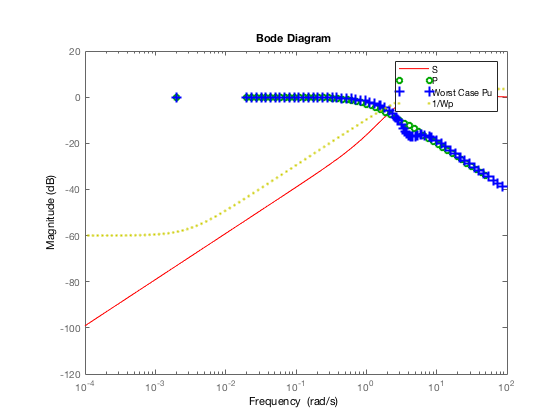
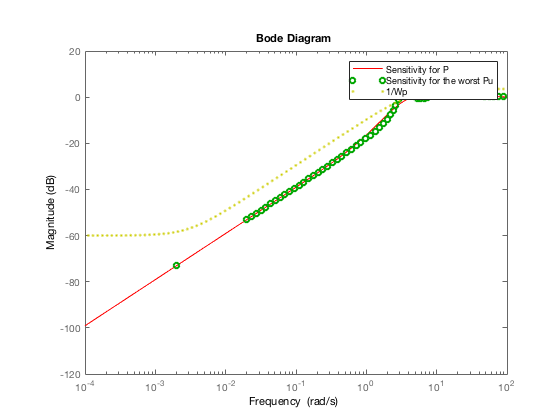
Final

diff --git a/FinalExam/html/q5.html b/FinalExam/html/q5.html
@@ -66,7 +66,7 @@ table td { padding:7px 5px; text-align:left; vertical-align:top; border:1px soli
 
 
 
-  </style></head><body><div class="content"><h1>q5</h1><!--introduction--><!--/introduction--><h2>Contents</h2><div><ul><li><a href="#1">5.a</a></li><li><a href="#2">5.b</a></li><li><a href="#3">5.c</a></li><li><a href="#4">5.d</a></li><li><a href="#5">5.e</a></li></ul></div><h2 id="1">5.a</h2><pre class="codeinput">P = tf(1,[1 -1]);
+  </style></head><body><div class="content"><h1>q5</h1><!--introduction--><!--/introduction--><h2>Contents</h2><div><ul><li><a href="#1">5.a</a></li><li><a href="#2">5.b</a></li><li><a href="#3">5.c</a></li><li><a href="#4">5.d</a></li><li><a href="#5">5.e</a></li><li><a href="#6">5.f</a></li><li><a href="#7">5.g Task 1</a></li><li><a href="#8">5.g Task 2</a></li><li><a href="#9">5.g Task 3</a></li></ul></div><h2 id="1">5.a</h2><pre class="codeinput">P = tf(1,[1 -1]);
 C = tf([5.8 9],[0.04 1 0]);
 S = 1/(1+P*C);
 Wp = tf([0.667 3],[1 0.003]);
@@ -84,8 +84,24 @@ bodemag(S,<span class="string">'r--'</span>,1/Wp,<span class="string">'bo'</span
 legend(<span class="string">'S'</span>,<span class="string">'1/Wp'</span>)
 </pre><img vspace="5" hspace="5" src="q5_01.png" alt=""> <h2 id="3">5.c</h2><p>Based on the results of 4.g, the system is stable, moreover we can verify it by using the function robstab.</p><pre class="codeinput">delta = ultidyn(<span class="string">'delta'</span>,[1 1],<span class="string">'bound'</span>,1);
 Pu = P*(1+0.4*delta);
-Snew = 1/(1+Pu*C);
-[stabmarg,wcu] = robstab(Snew);
+System1 = feedback(Pu,C);
+[stabmarg,wcu] = robuststab(System1)
+</pre><pre class="codeoutput">
+stabmarg = 
+
+  struct with fields:
+
+                LowerBound: 1.7004
+                UpperBound: 1.7004
+    DestabilizingFrequency: 2.9326
+
+
+wcu = 
+
+  struct with fields:
+
+    delta: [1&times;1 ss]
+
 </pre><h2 id="4">5.d</h2><pre class="codeinput">[wcg,wcu] = wcgain(Wp/(1+Pu*C))
 <span class="comment">% specific stable linear system</span>
 wcu.delta
@@ -132,11 +148,39 @@ ans =
  
 Continuous-time state-space model.
 
-</pre><h2 id="5">5.e</h2><pre class="codeinput">Pu_worse = P*(1+0.4*wcu.delta);
+</pre><h2 id="5">5.e</h2><p>We can see the worst case gain from the intersection of 1/Wp and the sensitivity of the worse case Pu (refer to the small gain theorem), the intersection frequency is larger than 1, which confirm the stability and the worse case gain seen in 5.c and 5.d.</p><pre class="codeinput">Pu_worst = P*(1+0.4*wcu.delta);
+Sworst = 1/(1+Pu_worst*C);
 figure
-bodemag(S,<span class="string">'r-'</span>,P,<span class="string">'go'</span>,Pu_worse,<span class="string">'b+'</span>,1/Wp,<span class="string">'y.'</span>)
-legend(<span class="string">'S'</span>,<span class="string">'P'</span>,<span class="string">'Worst Case Pu'</span>,<span class="string">'1/Wp'</span>)
-</pre><img vspace="5" hspace="5" src="q5_02.png" alt=""> <p class="footer"><br><a href="http://www.mathworks.com/products/matlab/">Published with MATLAB&reg; R2017b</a><br></p></div><!--
+bodemag(S,<span class="string">'r-'</span>,Sworst,<span class="string">'go'</span>,1/Wp,<span class="string">'y.'</span>)
+legend(<span class="string">'Sensitivity for P'</span>,<span class="string">'Sensitivity for the worst Pu'</span>,<span class="string">'1/Wp'</span>)
+</pre><img vspace="5" hspace="5" src="q5_02.png" alt=""> <h2 id="6">5.f</h2><pre class="codeinput">figure
+step(S,Sworst,4)
+legend(<span class="string">'Step response of S for P'</span>,<span class="string">'Step response of S for Worst case Pu'</span>)
+</pre><img vspace="5" hspace="5" src="q5_03.png" alt=""> <h2 id="7">5.g Task 1</h2><pre class="codeinput">Wu = makeweight(0.4, 20, 400);
+delta = ultidyn(<span class="string">'delta'</span>,[1 1],<span class="string">'bound'</span>,1);
+PuNew = P*(1+Wu*delta);
+robuststab(feedback(PuNew,C))
+</pre><h2 id="8">5.g Task 2</h2><pre class="codeinput">[wcg,wcu] = wcgain(Wp/(1+PuNew*C))
+</pre><pre class="codeoutput">
+wcg = 
+
+  struct with fields:
+
+           LowerBound: 2.4469
+           UpperBound: 2.4519
+    CriticalFrequency: 3.8324
+
+
+wcu = 
+
+  struct with fields:
+
+    delta: [1&times;1 ss]
+
+</pre><h2 id="9">5.g Task 3</h2><pre class="codeinput">figure
+Pu_worst = P*(1+Wu*wcu.delta);
+step(1/(1+P*C),1/(1+Pu_worst*C),4)
+</pre><img vspace="5" hspace="5" src="q5_04.png" alt=""> <p class="footer"><br><a href="http://www.mathworks.com/products/matlab/">Published with MATLAB&reg; R2017b</a><br></p></div><!--
 ##### SOURCE BEGIN #####
 %% q5
 
@@ -158,8 +202,8 @@ legend('S','1/Wp')
 % it by using the function robstab.
 delta = ultidyn('delta',[1 1],'bound',1);
 Pu = P*(1+0.4*delta);
-Snew = 1/(1+Pu*C);
-[stabmarg,wcu] = robstab(Snew);
+System1 = feedback(Pu,C);
+[stabmarg,wcu] = robuststab(System1)
 
 %% 5.d
 [wcg,wcu] = wcgain(Wp/(1+Pu*C))
@@ -167,10 +211,35 @@ Snew = 1/(1+Pu*C);
 wcu.delta
 
 %% 5.e
-Pu_worse = P*(1+0.4*wcu.delta);
+% We can see the worst case gain from the intersection of 1/Wp and the
+% sensitivity of the worse case Pu (refer to the small gain theorem), the
+% intersection frequency is larger than 1, which confirm the stability and
+% the worse case gain seen in 5.c and 5.d.  
+Pu_worst = P*(1+0.4*wcu.delta);
+Sworst = 1/(1+Pu_worst*C);
 figure
-bodemag(S,'r-',P,'go',Pu_worse,'b+',1/Wp,'y.')
-legend('S','P','Worst Case Pu','1/Wp')
+bodemag(S,'r-',Sworst,'go',1/Wp,'y.')
+legend('Sensitivity for P','Sensitivity for the worst Pu','1/Wp')
+
+
+%% 5.f
+figure
+step(S,Sworst,4)
+legend('Step response of S for P','Step response of S for Worst case Pu')
+
+%% 5.g Task 1
+Wu = makeweight(0.4, 20, 400);
+delta = ultidyn('delta',[1 1],'bound',1);
+PuNew = P*(1+Wu*delta);
+robuststab(feedback(PuNew,C))
+
+%% 5.g Task 2
+[wcg,wcu] = wcgain(Wp/(1+PuNew*C))
+
+%% 5.g Task 3
+figure
+Pu_worst = P*(1+Wu*wcu.delta);
+step(1/(1+P*C),1/(1+Pu_worst*C),4)
 
 ##### SOURCE END #####
 --></body></html>

diff --git a/FinalExam/q5.m b/FinalExam/q5.m
@@ -18,8 +18,8 @@ legend('S','1/Wp')
 % it by using the function robstab.
 delta = ultidyn('delta',[1 1],'bound',1);
 Pu = P*(1+0.4*delta);
-Snew = 1/(1+Pu*C);
-[stabmarg,wcu] = robstab(Snew);
+System1 = feedback(Pu,C);
+[stabmarg,wcu] = robuststab(System1)
 
 %% 5.d
 [wcg,wcu] = wcgain(Wp/(1+Pu*C))
@@ -40,6 +40,19 @@ legend('Sensitivity for P','Sensitivity for the worst Pu','1/Wp')
 
 %% 5.f
 figure
-step(S,P,Pu_worst,4)
-legend('S','P','Worst case Pu')
+step(S,Sworst,4)
+legend('Step response of S for P','Step response of S for Worst case Pu')
 
+%% 5.g Task 1
+Wu = makeweight(0.4, 20, 400);
+delta = ultidyn('delta',[1 1],'bound',1);
+PuNew = P*(1+Wu*delta);
+robuststab(feedback(PuNew,C))
+
+%% 5.g Task 2
+[wcg,wcu] = wcgain(Wp/(1+PuNew*C))
+
+%% 5.g Task 3
+figure
+Pu_worst = P*(1+Wu*wcu.delta);
+step(1/(1+P*C),1/(1+Pu_worst*C),4)
